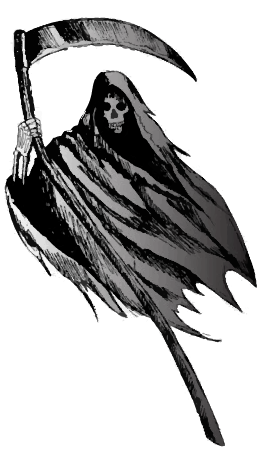
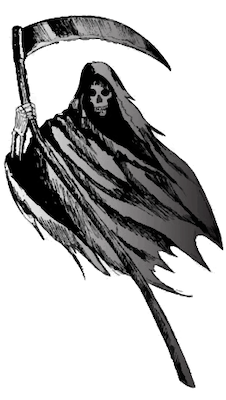
refactor: reduce sample hash length and image height size

diff --git a/content/2019/engineering-ufus-cc.md b/content/2019/engineering-ufus-cc.md
@@ -114,7 +114,7 @@ ufus
 redis:
   ufus:counter
     - 600
-  ufus:url:074cdaad7e3e5ebca755f0ed8437d60e:
+  ufus:url:074cdaade5ef:
     - 8c4oJ
   ufus:hash:8c4oJ:
     - url
@@ -126,7 +126,7 @@ redis:
 ```
 
 - `ufus:counter` stores an integer count value (i.e. `<300>`) of a base58 unique hash.
-- `ufus:url:074cdaad7e3e5ebca755f0ed8437d60e` stores a base58 unique hash value (i.e. `8c4oJ`) and the key suffix `074cdaad7e3e5ebca755f0ed8437d60e` is an md5 representation of the long URL requested to be shortened.
+- `ufus:url:074cdaade5ef` stores a base58 unique hash value (i.e. `8c4oJ`) and the key suffix `074cdaade5ef` is an md5 representation of the long URL requested to be shortened.
 - `ufus:hash:8c4oJ` stores long URL metadata and the key suffix `8c4oJ` is a base58 unique hash, generated encoding **random integer + ufus:counter** current value (i.e. `base58.encode(999 + 300)`).
   - `clicks` stores an integer count value (i.e. `<10>`) of times URL was visited.
   - `url` stores the original URL requested to be shortened.
